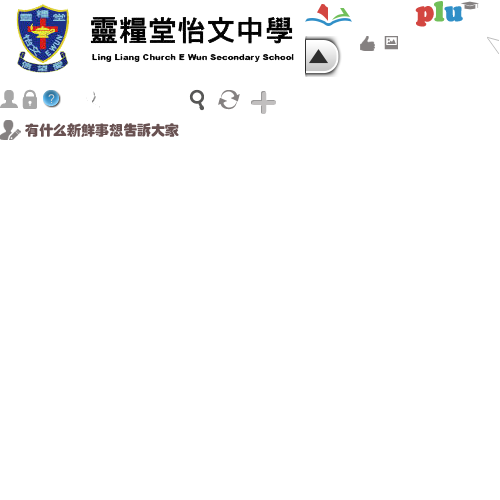
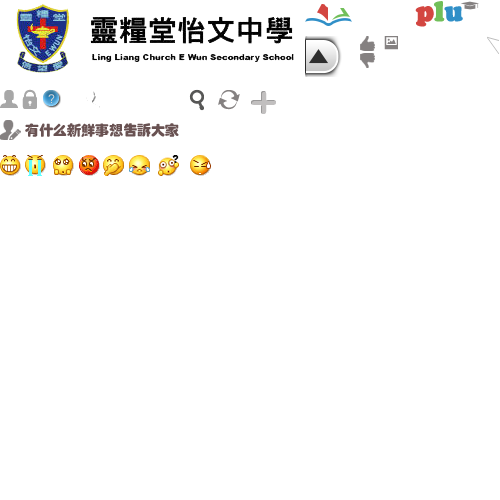
theme the node blog.

Changed region(s): [[0.0, 0.3, 0.42, 0.36], [0.72, 0.09, 0.75, 0.15]]

diff --git a/css/style.css b/css/style.css
@@ -113,6 +113,37 @@ a:focus {
 	height: 25px;
 	background-position: -250px -90px;
 }
+/*icon mood*/
+.icon-mood-1 {
+	background-position: 0 -155px;
+}
+.icon-mood-2 {
+	background-position: -25px -155px;
+}
+.icon-mood-3 {
+	background-position: -53px -155px;
+}
+.icon-mood-4 {
+	background-position: -79px -155px;
+}
+.icon-mood-5 {
+	background-position: -103px -155px;
+}
+.icon-mood-6 {
+	background-position: -129px -155px;
+}
+.icon-mood-7 {
+	background-position: -158px -155px;
+}
+.icon-mood-8 {
+	background-position: -190px -155px;
+}
+/*icon hate*/
+.icon-hate {
+	width: 15px;
+	height: 15px;
+	background-position:  -360px -53px;
+}
 /*---------------------------------------------------*\
 * btn 
 \*---------------------------------------------------*/
@@ -670,11 +701,15 @@ a:focus {
 	display: inline;
 	margin-left: 15px;
 }
+.comment-handle .icon-hate,
 .blog-handle .icon-like,
 .comment-handle .icon-like {
 	display: inline-block;
 	vertical-align: -2px;
 	margin-right: 5px;
+}
+.comment-handle .icon-hate {
+	vertical-align: -5px;
 }
 .commtent-repeat textarea {
 	overflow: hidden;
@@ -787,6 +822,98 @@ a:focus {
 }
 .block-archive-blog .block-content li {
 	margin-top: 10px;
+}
+/*----------------------------------------*\
+* node blog
+\*-----------------------------------------*/
+.node {
+	padding-top: 20px;
+	padding-left: 10px;
+	font-size: 12px;
+}
+.node-title {
+	font-size: 16px;
+	color: #000;
+	text-align: center;
+	margin-bottom: 10px;
+}
+.node p {
+	line-height: 28px;
+	text-indent: 2em;
+	margin-bottom: 10px;
+}
+.node-header .stbody {
+	margin-bottom: 0;
+}
+.node-header .meta {
+	text-align: right;
+}
+.node-header .metalink a {
+	margin-left: 10px;
+}
+/*rate average*/
+.rate-average {
+	border-bottom: 1px solid #c2c0c0;
+	padding-bottom: 10px;
+}
+.rate-average h3 {
+	font-size: 18px;
+	font-weight: bold;
+	margin-bottom: 5px;
+	color: #000;
+}
+.rate-average li {
+	float: left;
+	margin-right: 30px;
+	width: 30px;
+	text-align: center;
+}
+.rate-average li span,
+.rate-average li a {
+	display: block;
+}
+.rate-average li a {
+	color: #695252;
+	padding-top: 10px;
+	position: relative;
+}
+.rate-average .icon {
+	width: 21px;
+	height: 21px;
+	margin-bottom:5px;
+	margin-left: auto;
+	margin-right: auto;
+}
+.rate-average .rate-out {
+	border:1px solid #c2c0c0;
+	width: 8px;
+	height: 54px;
+	background:#f1f1f1;
+	position: relative;
+	margin: 0 auto;
+}
+.rate-average .rate-inner {
+	width: 100%;
+	background: #f1caad;
+	position: absolute;
+	bottom: 0;
+	left: 0;
+}
+.comment-info .level a {
+	margin-right: 20px;
+}
+.node-comment .commtent-repeat textarea {
+	width: 688px;
+}
+/*answer box*/
+.answer-box h3{
+	font-size: 16px;
+	border-bottom: 1px dashed #c2c0c0;
+	padding-bottom: 5px;
+	margin-bottom: 10px;
+}
+.answer-box .form-actions {
+	text-align: right;
 }
 /*---------------------------------------*\
 *ie8 hack 

diff --git a/css/base.css b/css/base.css
@@ -922,3 +922,17 @@ filter: progid:DXImageTransform.Microsoft.gradient( startColorstr='#e0e0e0', end
     opacity: 0.65;
     filter: alpha(opacity = 65);
 }
+/* btn-primary*/
+.btn-primary{
+  background: #308fc7;
+  color: #fff;
+  box-shadow: none;
+  font-size: 14px;
+  text-shadow: none;
+  border:none;
+  padding: 8px 15px;
+}
+.btn-primary:hover,
+.btn-primary:active{
+  background: #4898c7;
+}

diff --git a/rate-average.php b/rate-average.php
@@ -3,43 +3,43 @@
 	<ul class="unstyled clearfix">
 		<li>
 			<span class="num">74</span>
-			<span class="rate-out"><span class="rate-inner"></span></span>
-			<a href="#" class="title"><i class="icon icon-mood-1"></i>高兴</a>
+			<span class="rate-out"><span class="rate-inner" style="height:74%;"></span></span>
+			<a href="#" class="title"><i class="icon ir icon-mood-1"></i>高兴</a>
 		</li>
 		<li>
 			<span class="num">0</span>
-			<span class="rate-out"><span class="rate-inner"></span></span>
-			<a href="#" class="title"><i class="icon icon-mood-2"></i>感动</a>
+			<span class="rate-out"><span class="rate-inner" style="height:0;"></span></span>
+			<a href="#" class="title"><i class="icon ir icon-mood-2"></i>感动</a>
 		</li>
 		<li>
 			<span class="num">6</span>
-			<span class="rate-out"><span class="rate-inner"></span></span>
-			<a href="#" class="title"><i class="icon icon-mood-3"></i>同意</a>
+			<span class="rate-out"><span class="rate-inner" style="height:6%;"></span></span>
+			<a href="#" class="title"><i class="icon ir icon-mood-3"></i>同意</a>
 		</li>
 		<li>
 			<span class="num">2</span>
-			<span class="rate-out"><span class="rate-inner"></span></span>
-			<a href="#" class="title"><i class="icon icon-mood-4"></i>愤怒</a>
+			<span class="rate-out"><span class="rate-inner" style="height:2%;"></span></span>
+			<a href="#" class="title"><i class="icon ir icon-mood-4"></i>愤怒</a>
 		</li>
 		<li>
 			<span class="num">29</span>
-			<span class="rate-out"><span class="rate-inner"></span></span>
-			<a href="#" class="title"><i class="icon icon-mood-5"></i>搞笑</a>
+			<span class="rate-out"><span class="rate-inner" style="height:29%;"></span></span>
+			<a href="#" class="title"><i class="icon ir icon-mood-5"></i>搞笑</a>
 		</li>
 		<li>
 			<span class="num">1</span>
-			<span class="rate-out"><span class="rate-inner"></span></span>
-			<a href="#" class="title"><i class="icon icon-mood-6"></i>难过</a>
+			<span class="rate-out"><span class="rate-inner" style="height:1%;"></span></span>
+			<a href="#" class="title"><i class="icon ir icon-mood-6"></i>难过</a>
 		</li>
 		<li>
 			<span class="num">1</span>
-			<span class="rate-out"><span class="rate-inner"></span></span>
-			<a href="#" class="title"><i class="icon icon-mood-7"></i>新奇</a>
+			<span class="rate-out"><span class="rate-inner" style="height:1%;"></span></span>
+			<a href="#" class="title"><i class="icon ir icon-mood-7"></i>新奇</a>
 		</li>
 		<li>
 			<span class="num">12</span>
-			<span class="rate-out"><span class="rate-inner"></span></span>
-			<a href="#" class="title"><i class="icon icon-mood-8"></i>流汗</a>
+			<span class="rate-out"><span class="rate-inner" style="height:12%;"></span></span>
+			<a href="#" class="title"><i class="icon ir icon-mood-8"></i>流汗</a>
 		</li>
 	</ul>
 </div>

diff --git a/node-comments.php b/node-comments.php
@@ -1,4 +1,4 @@
-<div class="node-comment">
+<div class="node-comment clearfix">
 	<div class="comments-group">
 		<div class="comment stbody">
 			<div class="stimg stimgL avatar"><a href="#"><img src="http://www.w3cplus.com/sites/default/files/styles/user_picture/public/pictures/picture-1-1347153884.jpg" alt="avatar" width="32" height="32"></a></div>
@@ -135,10 +135,12 @@
 	</div>
 	<!-- end comment group -->
 
-	<div class="answer-box">
+	<div class="answer-box ptm">
 		<h3 class="title">我来回答</h3>
 		<div class="textarea-wrapper">此处放文本编辑器</div>
-		<button class="btn btn-sent" type="submit">发布</button>
+		<div class="form-actions">
+			<button class="btn  btn-primary" type="submit">发布</button>
+		</div>
 	</div>
 
 

diff --git a/node-blog-header.php b/node-blog-header.php
@@ -1,4 +1,4 @@
-<div class="node-header node-blog-header clearfix">
+<div class="node-header node-blog-header clearfix mbxl">
 	<div class="author-info stbody fl">
 		<a href="#" class="stimg stimgL"><img src="http://www.w3cplus.com/sites/default/files/styles/user_picture/public/pictures/picture-1-1347153884.jpg" alt=""></a>
 		<div class="sttext">
